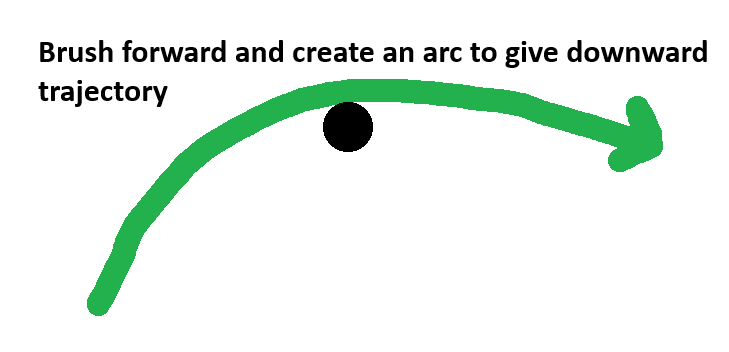
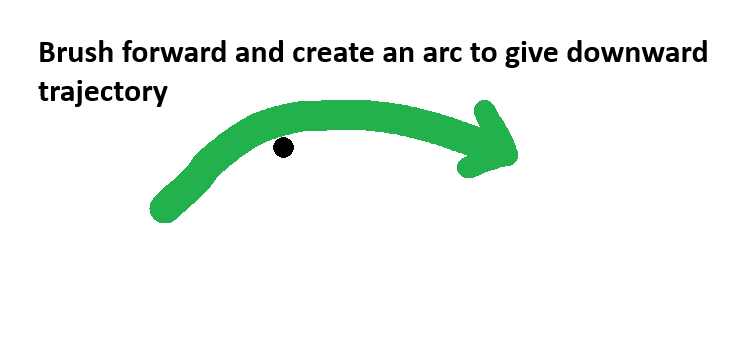
More Table Tennis

Changed region(s): [[0.1207, 0.2188, 0.9355, 0.9062]]

diff --git a/Hobbies/Table Tennis/backhand_loop.md b/Hobbies/Table Tennis/backhand_loop.md
@@ -33,6 +33,16 @@ The most crucial points to apply when performing the backhand loop for success a
 2. **Explosive Movement** - Explosive movement and wrist are essential for power and allow for increased dwell time for the follow through. This means to perform the movement from start to completion in the smallest amount of time, which also creating high amounts of power.
 3. **Follow Through** - If brushing and explosive movement are combined, then follow through is critical to allow for increased dwell time and increased accuracy. Follow through is important or otherwise you will be subconsciously using your muscles to slow down. Like golf, there is no way to hit it as well and also have the club stop immediately afterwards. Sometimes thinking about where your follow through ends up, can help control the motion before and during contact. You change your motion before hitting the ball as well, even though youre focused on the after part.
 4. **Create an Arc** - At the point of contact, a final downward snap of the wrist is applied to give the ball a downward trend. This creates a powerful arc. A good arc makes the loop both safe and powerful. Allowing for it to clear then net and then give a downward trend to land on the table. A flat arc (too straight) will result in the ball travelling very fast, but doesn't dip and will go off the table. An arc is too flat when it is not given enough upward brush or topspin to bring the ball down. You need to "wrap forward-up-down" not "push forward". **Even though the "pull down" optically occurs after the ball is struck, the muscle movement is different on ball contact because the down force begins before/during ball contact.**
+5. **No Large Backswing** - The stroke begins from a relaxed, centered and compact position, no large backswing. The paddle starts 15-20cm from infront of your abdomen, elbow slightly forward from the torso. **Blade is slightly closed (~30°)**. This closed angle is required to brush up the back of the ball while still clearing the net. Angles are from 0 degree to the vertical.
+6. **Wrist** - Super important!
+
+<div align="center">
+    <img src="./images/72.png/">
+</div>
+
+<div align="center">
+    <img src="./images/73.png/">
+</div>
 
 <div align="center">
     <img src="./images/bh_arc.png/">
@@ -44,6 +54,10 @@ The most crucial points to apply when performing the backhand loop for success a
 
 <div align="center">
     <img src="./images/lin_shidong_backhand_downward.gif/">
+</div>
+
+<div align="center">
+    <img src="./images/lin_shidong_bh_to_fh_slowed.gif">
 </div>
 
 The motion blends brushing and driving, approximately a 40:60 brush-to-drive ratio in standard rallies. The impact zone lies in front of the torso. Lin uses a thin-medium contact, generating topspin while maintaining forward penetration. Grip pressure peaks precisely at contact, compressing the ball momentarily before release. This synchronization of elbow stability, forearm rotation and wrist acceleration results in high ball speed with a comparatively low arc.

diff --git a/Hobbies/Table Tennis/pendulum_serve.md b/Hobbies/Table Tennis/pendulum_serve.md
@@ -1,0 +1,87 @@
+<div align='center'>
+    <h1> Pendulum Serve </h1>
+</div>
+
+The pendulum serve involves swinging your forearm from right to left, like a pendulum, brushing the ball on its side or underside. It's commonly used by elite players because it can,
+
+1. Produce very heavy spin with subtle variations.
+2. Be served short (to stop attack) or fast and long (to surprise opponents).
+3. Be deceptive - the motion for topspin and backspin can look very similar.
+
+## Grip
+
+The shakehand grip is too stiff on the wrist, instead you need to change to use a pinch grip.
+
+<div align='center'>
+    <img src='images/66.png'>
+</div>
+
+<div align='center'>
+    <img src='images/67.png'>
+</div>
+
+The goal is to allow the wrist to flow freely.
+
+<div align='center'>
+    <img src='images/pendulum_serve_1.gif'>
+</div>
+
+## Basic Steps
+
+#### Preparation
+
+<div align='center'>
+    <img src='images/69.png'>
+</div>
+
+#### Pendulum Motion
+
+Get the elbow to be the anchor for the pendulum. The forearm and the racket needs to move in a pendulum motion.
+
+<div align='center'>
+    <img src='images/pendulum_serve_2.gif'>
+</div>
+
+#### Wrist Snap
+
+The wrist needs to perform a snapping motion to generate the spin.
+
+<div align='center'>
+    <img src='images/pendulum_serve_1.gif'>
+</div>
+
+#### Contact Point
+
+During the pendulum service, the goal is to make contact on the left side of the racket. This is due to allowing the most amount of spin due to increased contact time.
+
+<div align='center'>
+    <img src='images/68.png'>
+</div>
+
+#### Variations
+
+#### Ma Long
+
+<div align='center'>
+    <img src='images/pendulum_serve_3.gif'>
+</div>
+
+#### Backspin
+
+<div align='center'>
+    <img src='images/70.png'>
+</div>
+
+<div align='center'>
+    <img src='images/pendulum_serve_4.gif'>
+</div>
+
+### Topspin
+
+<div align='center'>
+    <img src='images/71.png'>
+</div>
+
+<div align='center'>
+    <img src='images/pendulum_serve_5.gif'>
+</div>
